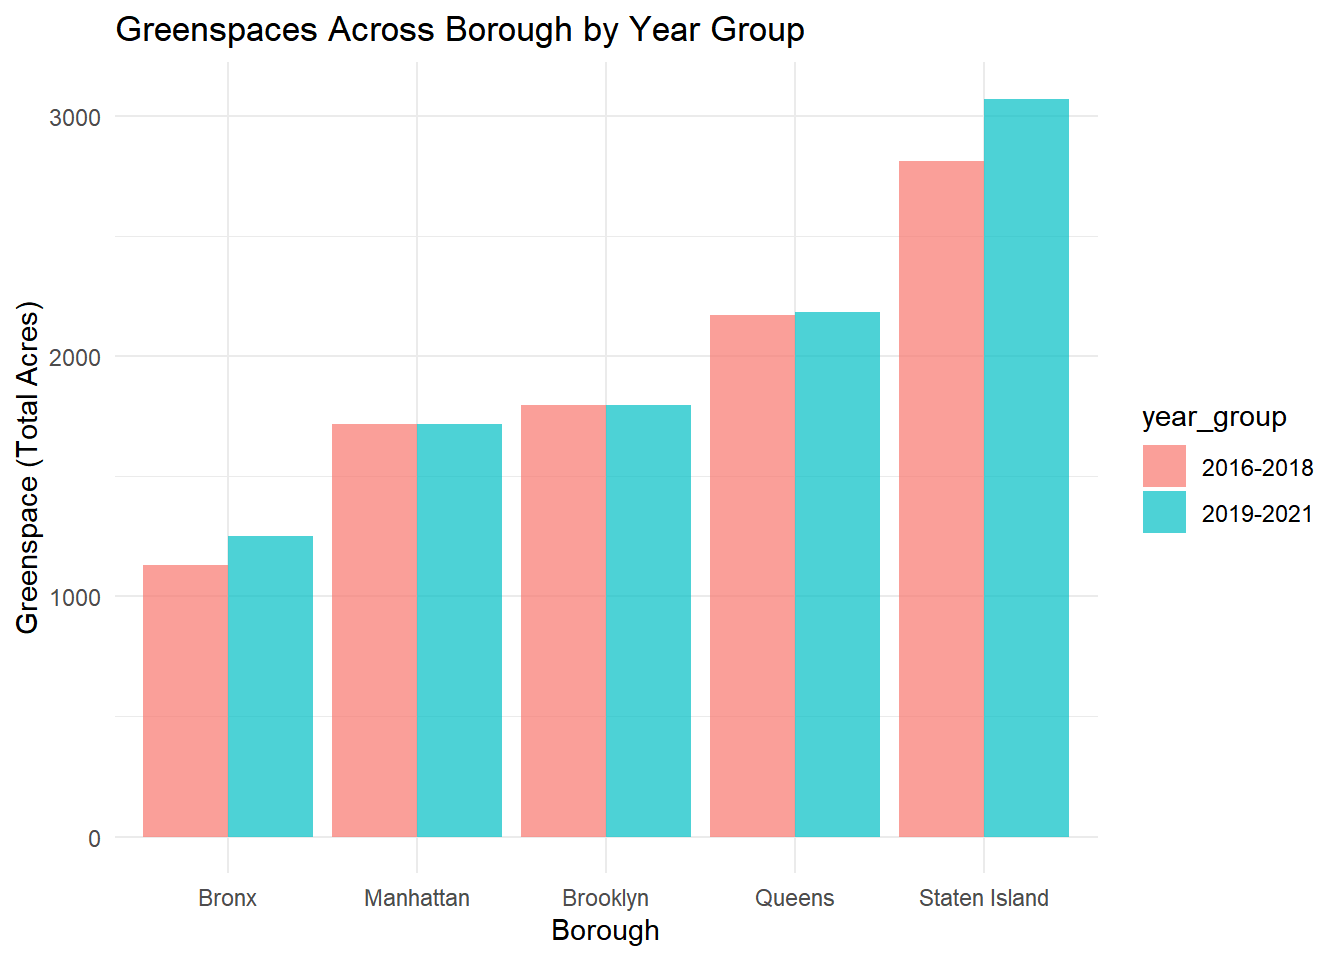
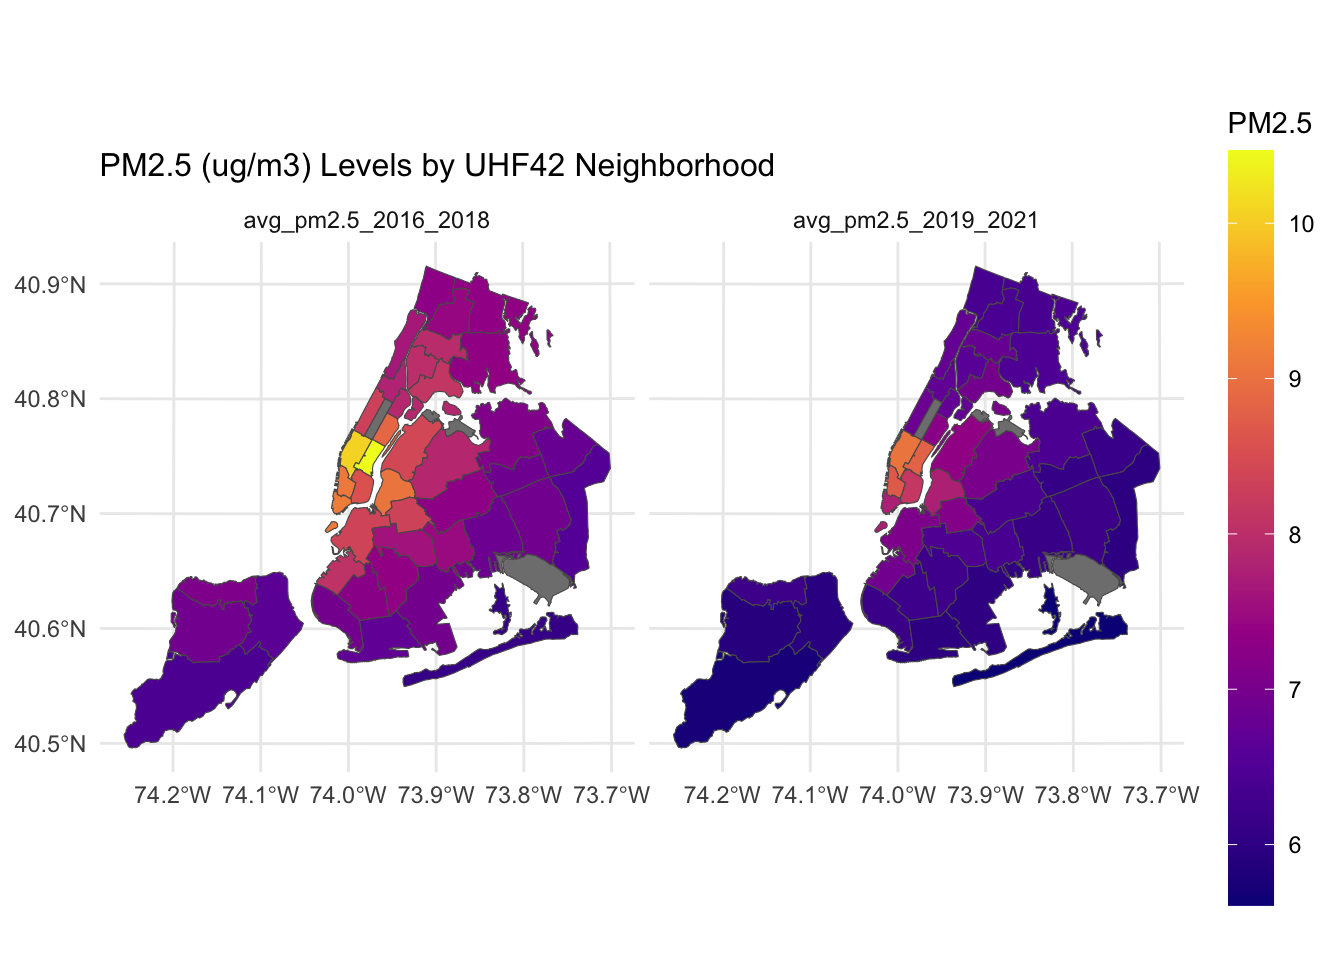
add PM2.5 knitr table with differences by year and PM2.5 heat map

diff --git a/exploratory_data_analysis.html b/exploratory_data_analysis.html
@@ -715,8 +715,62 @@ tidy_analysis_pm =
     fill = &quot;Year Group&quot;
   ) </code></pre>
 <p><img src="exploratory_data_analysis_files/figure-html/unnamed-chunk-8-1.png" width="672" /></p>
-<p>make knitr chart that shows with in numbers differences between
-years</p>
+<pre class="r"><code># Print PM2.5 Summary
+
+tidy_analysis_pm_diff &lt;- 
+  tidy_analysis_pm |&gt;
+  mutate(pm2.5_difference = `avg_pm2.5_2016-2018` - `avg_pm2.5_2019-2021`)
+
+
+knitr::kable(tidy_analysis_pm_diff, col.names = c(&quot;borough&quot;, &quot;avg_pm2.5_2016-2018&quot;, &quot;avg_pm2.5_2019-2021&quot;, &quot;pm2.5_difference&quot;))</code></pre>
+<table>
+<colgroup>
+<col width="19%" />
+<col width="28%" />
+<col width="28%" />
+<col width="23%" />
+</colgroup>
+<thead>
+<tr class="header">
+<th align="left">borough</th>
+<th align="right">avg_pm2.5_2016-2018</th>
+<th align="right">avg_pm2.5_2019-2021</th>
+<th align="right">pm2.5_difference</th>
+</tr>
+</thead>
+<tbody>
+<tr class="odd">
+<td align="left">Bronx</td>
+<td align="right">7.573333</td>
+<td align="right">6.553333</td>
+<td align="right">1.0200000</td>
+</tr>
+<tr class="even">
+<td align="left">Brooklyn</td>
+<td align="right">7.490000</td>
+<td align="right">6.470000</td>
+<td align="right">1.0200000</td>
+</tr>
+<tr class="odd">
+<td align="left">Manhattan</td>
+<td align="right">8.716667</td>
+<td align="right">7.626667</td>
+<td align="right">1.0900000</td>
+</tr>
+<tr class="even">
+<td align="left">Queens</td>
+<td align="right">7.060000</td>
+<td align="right">6.336667</td>
+<td align="right">0.7233333</td>
+</tr>
+<tr class="odd">
+<td align="left">Staten Island</td>
+<td align="right">6.683333</td>
+<td align="right">5.870000</td>
+<td align="right">0.8133333</td>
+</tr>
+</tbody>
+</table>
 <p>Show map of PM2.5 levels per UH42 index across years.</p>
 <pre class="r"><code>geography = 
   read_excel(&quot;data/geoid_borough_name_nyc.xlsx&quot;) |&gt;
@@ -763,13 +817,45 @@ tidy_uhf42_pm &lt;-
     UHFCODE = as.double(UHFCODE))</code></pre>
 <pre class="r"><code>map_uhf42 &lt;- 
   uhf42_map |&gt;
-  left_join(tidy_uhf42_pm, by = &quot;UHFCODE&quot;) </code></pre>
+  left_join(tidy_uhf42_pm, by = &quot;UHFCODE&quot;) |&gt;
+  pivot_longer(cols = starts_with(&quot;avg_pm2.5_&quot;), 
+               names_to = &quot;time_period&quot;, 
+               values_to = &quot;avg_pm2.5&quot;)</code></pre>
+<p>Make a heat map showing differences across UHF42 neighborhoods from
+2016-2018 to 2019-2021.</p>
+<pre class="r"><code>heat_map_pm2.5 &lt;- ggplot() +
+  geom_sf(data = map_uhf42, aes(fill = avg_pm2.5)) +
+  facet_wrap(~time_period, ncol = 2) +
+  scale_fill_viridis_c(option = &quot;plasma&quot;, na.value = &quot;grey50&quot;) +
+  labs(
+    title = &quot;PM2.5 (ug/m3) Levels by UHF42 Neighborhood&quot;,
+    fill = &quot;PM2.5&quot;
+  ) +
+  theme_minimal() +
+  theme(
+    plot.title = element_text(size = 12),
+    legend.position = &quot;right&quot;,
+    legend.key.height = unit(2, &quot;cm&quot;)
+  )
+
+heat_map_pm2.5</code></pre>
+<p><img src="exploratory_data_analysis_files/figure-html/unnamed-chunk-15-1.png" width="672" />
+Looking at the PM2.5(ug/m3) levels across the two time periods(2016-2018
+and 2019-2021), we can observe several key patterns: - Overall, there is
+a general decrease in PM2.5 levels from 2016-2018 and 2019-2021 across
+the majority of UHF42 neighborhoods, as the 2019-2021 map has much
+darkers colors indicating lower PM2.5 levels. - Midtown Manhattan shows
+the highest PM2.5 levels across both time periods. - Staten Island shows
+the lowest PM2.5 levels across all boroughs.</p>
+<p>We hypothesize that the COVID-19 pandemic resulted in significantly
+reduced traffic and industrial pollution, resulting in lower PM2.5
+levels in 2019-2021 compared to 2016-2018.</p>
 </div>
 <div id="greenspace" class="section level2">
 <h2>Greenspace</h2>
 <div id="borough-and-year-comparison" class="section level4">
 <h4>Borough and Year Comparison</h4>
-<p><img src="exploratory_data_analysis_files/figure-html/unnamed-chunk-14-1.png" width="672" /></p>
+<p><img src="exploratory_data_analysis_files/figure-html/unnamed-chunk-16-1.png" width="672" /></p>
 <p>Bronx had the least amount of greenspace, followed by Manhattan,
 Brooklyn, and Queens. Staten Island had the highest amount of
 greenspace. This trend is similar between both year groups.</p>
@@ -824,7 +910,7 @@ increase (258.720 acres) in greenspaces and Manhattan had the least
 </div>
 <div id="greenspace-types" class="section level4">
 <h4>Greenspace Types</h4>
-<p><img src="exploratory_data_analysis_files/figure-html/unnamed-chunk-18-1.png" width="672" /></p>
+<p><img src="exploratory_data_analysis_files/figure-html/unnamed-chunk-20-1.png" width="672" /></p>
 <p>In terms of total acres, flagship parks make up the largest
 proportion of NYC greenspace. This trend is similar for both year
 groups.</p>
@@ -995,7 +1081,7 @@ ggplot(all_temp_month, aes(x = months, y = avg_month, color = borough)) +
     color = &quot;Borough&quot;
   ) +
   theme_minimal()</code></pre>
-<p><img src="exploratory_data_analysis_files/figure-html/unnamed-chunk-23-1.png" width="672" /></p>
+<p><img src="exploratory_data_analysis_files/figure-html/unnamed-chunk-25-1.png" width="672" /></p>
 <pre class="r"><code># Max, Min, Mean temperature trend by year and borough
 
 mean_temp_year = all_temp |&gt; 
@@ -1031,7 +1117,7 @@ ggplot(long_data, aes(x = years, y = Temperature, color = Temperature_Type, grou
                &quot;mean_temp&quot; = &quot;Mean Temperature&quot;)) +
   theme_minimal() +                    
   facet_wrap(~ borough)  </code></pre>
-<p><img src="exploratory_data_analysis_files/figure-html/unnamed-chunk-24-1.png" width="672" /></p>
+<p><img src="exploratory_data_analysis_files/figure-html/unnamed-chunk-26-1.png" width="672" /></p>
 <pre class="r"><code>#average temperature table
 
 mean_temp_table = mean_temp_year |&gt; 
@@ -1114,7 +1200,7 @@ class="section level3">
        x = &quot;Date Group&quot;,
        y = &quot;Average Temperature&quot;) +
   theme_minimal()</code></pre>
-<p><img src="exploratory_data_analysis_files/figure-html/unnamed-chunk-26-1.png" width="672" /></p>
+<p><img src="exploratory_data_analysis_files/figure-html/unnamed-chunk-28-1.png" width="672" /></p>
 </div>
 </div>
 </div>

diff --git a/visualization.html b/visualization.html
@@ -14,7 +14,7 @@
 
 <title>Visualization</title>
 
-<script src="site_libs/header-attrs-2.29/header-attrs.js"></script>
+<script src="site_libs/header-attrs-2.28/header-attrs.js"></script>
 <script src="site_libs/jquery-3.6.0/jquery-3.6.0.min.js"></script>
 <meta name="viewport" content="width=device-width, initial-scale=1" />
 <link href="site_libs/bootstrap-3.3.5/css/cerulean.min.css" rel="stylesheet" />
@@ -36,8 +36,8 @@
 <script src="site_libs/navigation-1.1/tabsets.js"></script>
 <link href="site_libs/highlightjs-9.12.0/default.css" rel="stylesheet" />
 <script src="site_libs/highlightjs-9.12.0/highlight.js"></script>
-<link href="site_libs/font-awesome-6.5.2/css/all.min.css" rel="stylesheet" />
-<link href="site_libs/font-awesome-6.5.2/css/v4-shims.min.css" rel="stylesheet" />
+<link href="site_libs/font-awesome-6.4.2/css/all.min.css" rel="stylesheet" />
+<link href="site_libs/font-awesome-6.4.2/css/v4-shims.min.css" rel="stylesheet" />
 
 <style type="text/css">
   code{white-space: pre-wrap;}
